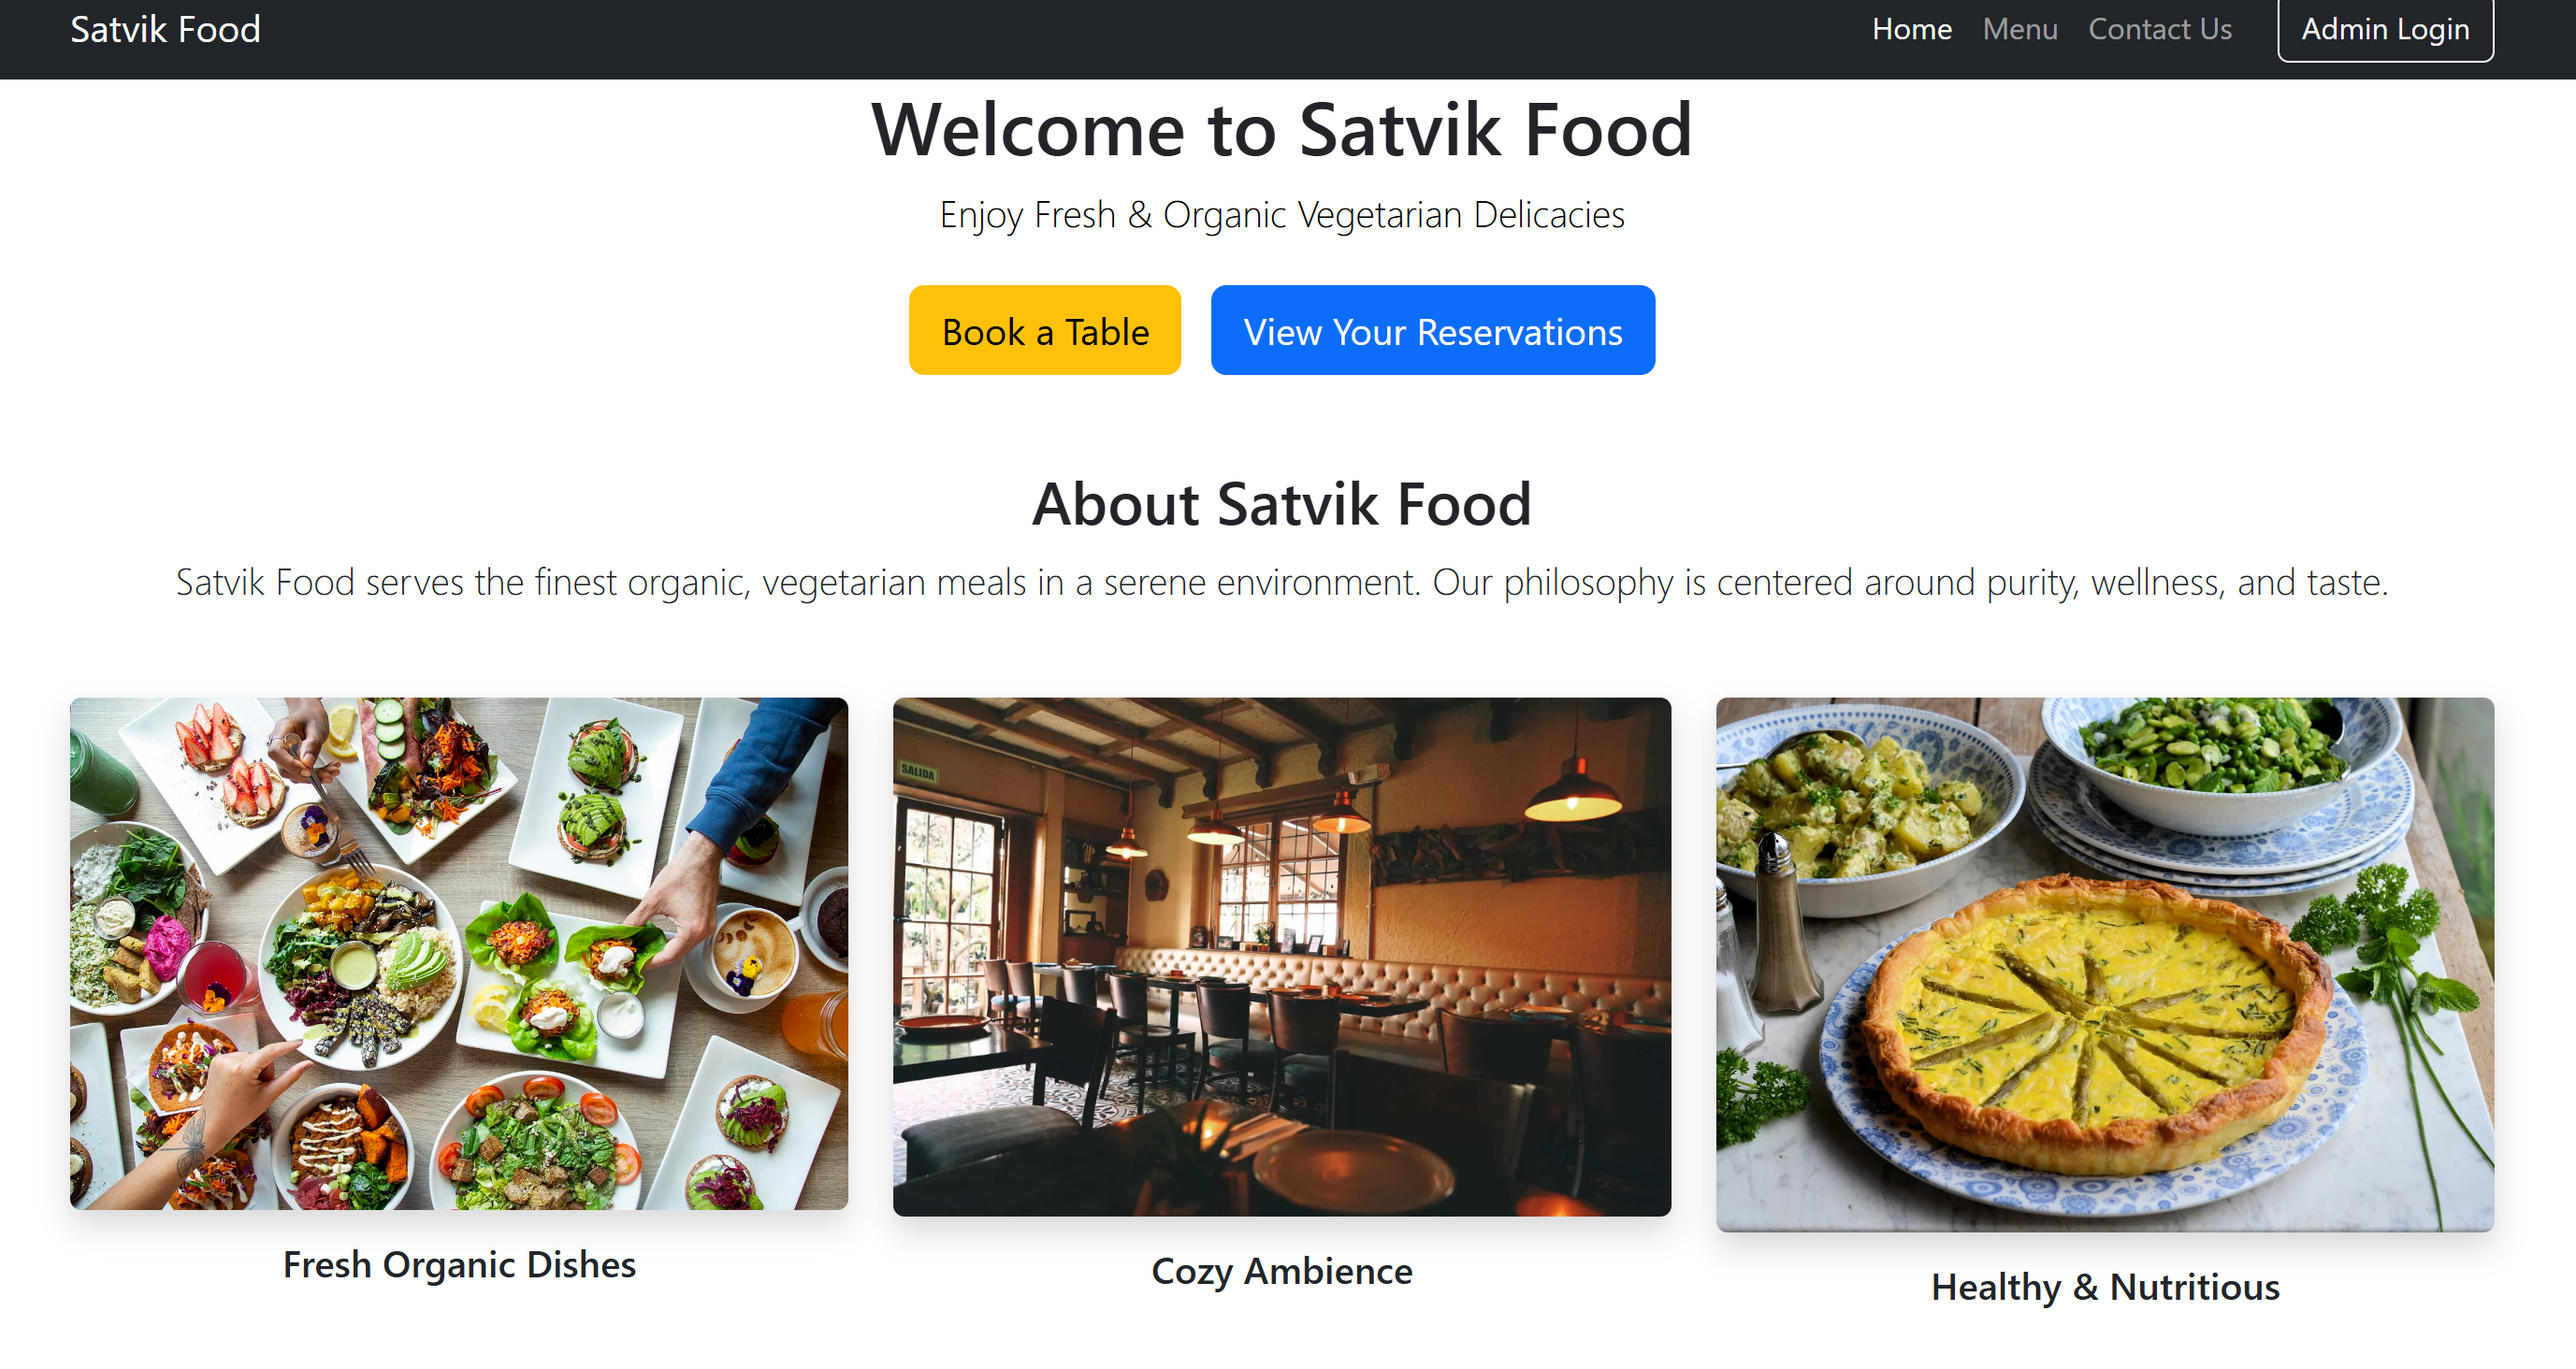
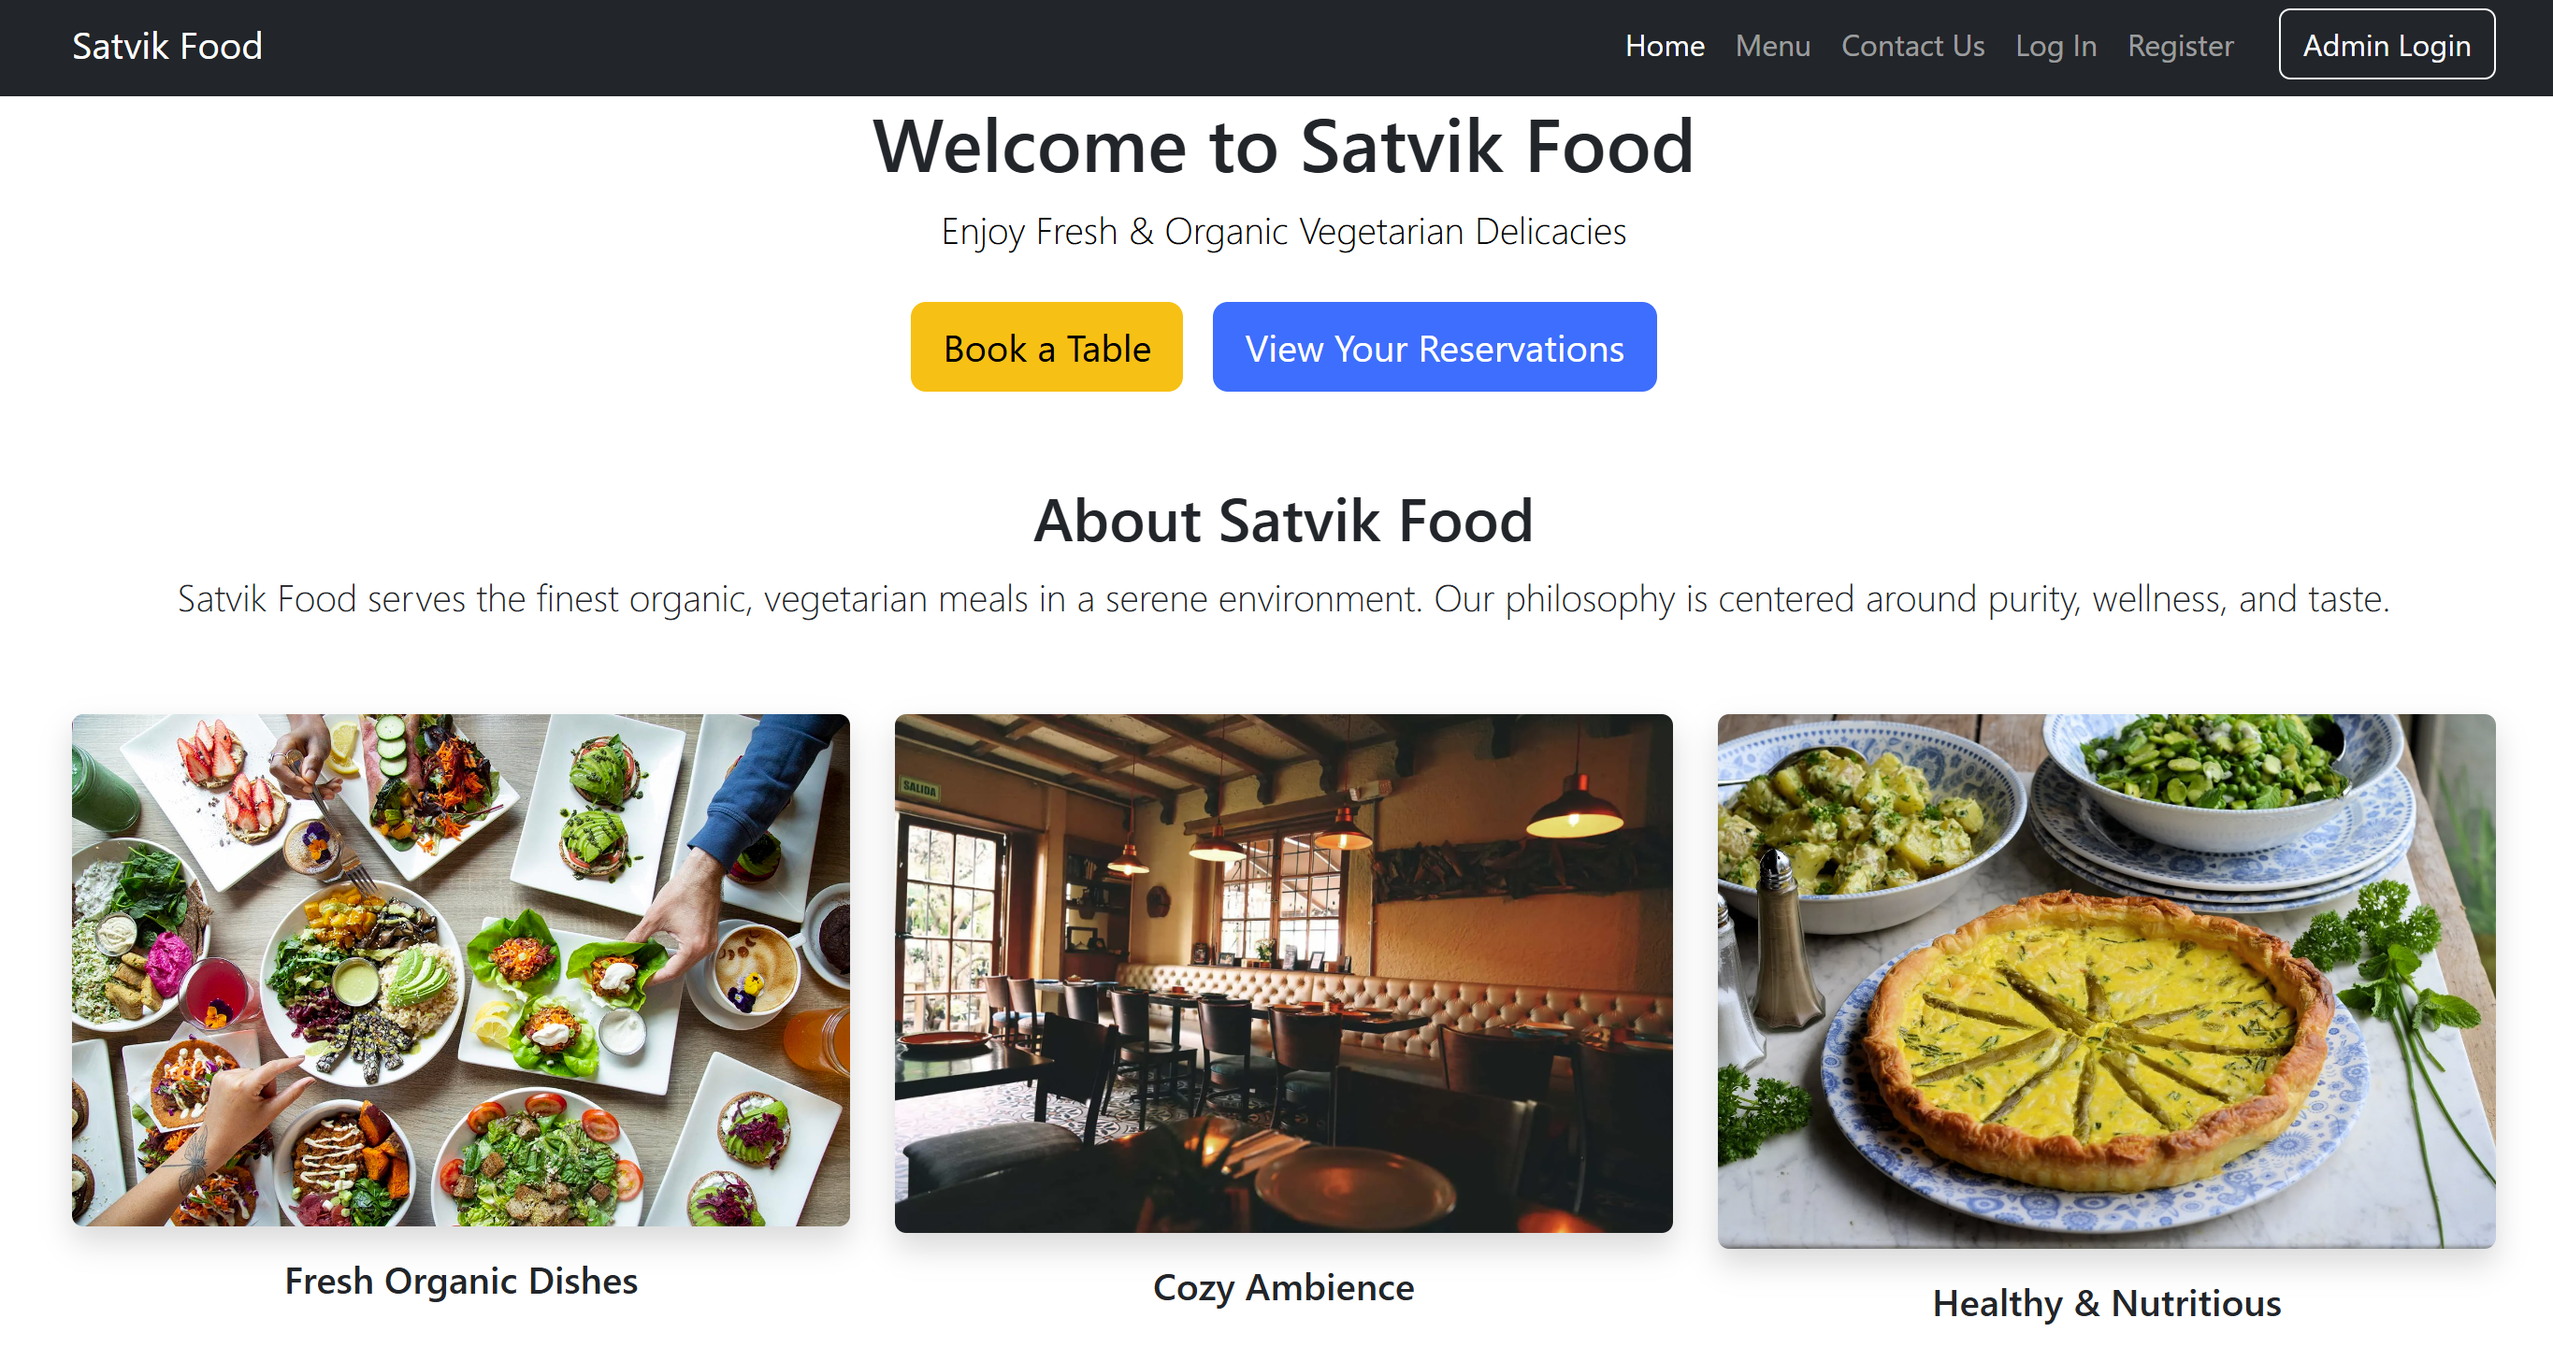
Final update of ReadMe file

diff --git a/README.md b/README.md
@@ -14,7 +14,8 @@ Allow the users to view the menu, book the table and also update the booking. We
 ## Features
 
 - Responsive design for various screen sizes: Check the pictures in first section.
-- Nevigation bar for Home, Menu, Contact and Admin Login panal.
+- Nevigation bar for Home, Menu, Contact, Log in, Register and Admin Login panal.
+- Any number of user can log in and retrive their reservation data.
 - Table Reservation: Users can book tables by specifying the number of guests, the date, and the time.
 
 ![Responsice Mockup Mobile](https://github.com/pooja-par/satvik_food/blob/main/satvik/static/satvik/images/tablereserve.png)
@@ -68,7 +69,11 @@ Rich Text Editor: The admin panel includes Django Summernote for managing specia
 
 ## Testing
 
-I have manually tested this project by doing the following: -passed code through a PEP8 linter and confirmed there are no problems -Tested in my local terminal and Code Instite Heroku terminal -Check has been made by giving different numbers and also with empty field and random characters. With empty space and random characters, code return error and ask user to reenter the count again. -Where necessary, by print values are checked in terminal.
+I have manually tested this project by doing the following: 
+- passed code through a PEP8 linter and confirmed there are no problems 
+- Tested in my local terminal and Code Instite Heroku terminal 
+- Check has been made by giving different table numbers, registration of different users, try to rebook the table, and retriving the data for any user. 
+- Where necessary, by print values are checked in terminal.
 
 ## Deployment
 This project was deployed using Code Institute's mock terminal for Heroku.
